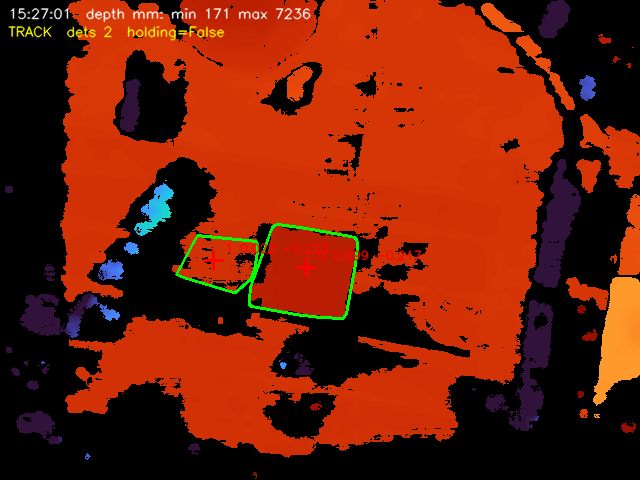
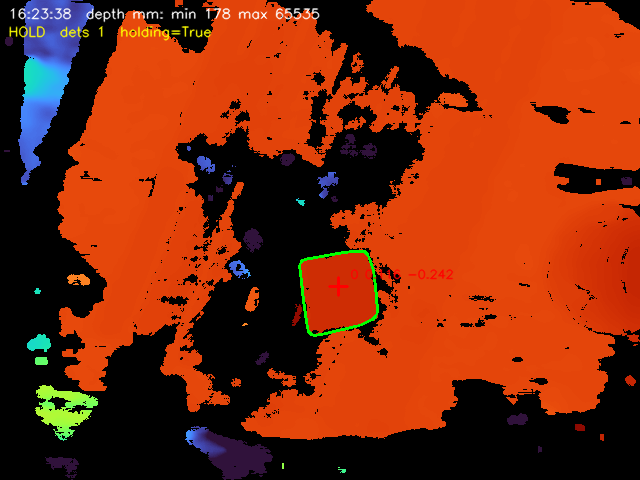
working on hardware

diff --git a/src/servo.py b/src/servo.py
@@ -9,9 +9,9 @@ import numpy as np
 
 from src.config import (
     ARM_DOF, TIP_OFFSET, R_DOWN, JOINT_RANGE,
-    GRIP_OPEN, SYNC_STEPS, RAPID,
+    GRIP_OPEN, SYNC_STEPS, RAPID, FEED,
     SERVO_USE_KF, KF_SIGMA_MEAS, KF_SIGMA_ACC, KF_GATE, SERVO_LEAD_S,
-    SERVO_KP, SERVO_KO, SERVO_KI, SERVO_KI_NEAR_M, SERVO_KI_NEAR_RAD, SERVO_KI_MAX_M,
+    SERVO_KP, SERVO_KO, GRASP_EXTRA_Z, SERVO_KI, SERVO_KI_NEAR_M, SERVO_KI_NEAR_RAD, SERVO_KI_MAX_M,
     SERVO_KI_MAX_RAD, SERVO_DAMP_GAIN, SERVO_DAMP_NEAR_M,
     SERVO_DAMP_NEAR_RAD,
     SERVO_TRACK_TOL, SERVO_TRACK_TOL_ROT, SERVO_STILL_SPEED, SERVO_LOST_LIMIT,
@@ -191,6 +191,7 @@ class PBVSServo:
         # there would close them in mid-air.
         self.descent_short = 0.0
         self.descent_joint = None
+        self.descent_info = None
 
         # set while the loop runs, so observe() can push to the overlay
         self.viewer = None
@@ -812,6 +813,7 @@ class PBVSServo:
         q = np.array(backend.joint_positions(), float)
         self.descent_short = 0.0
         self.descent_joint = None
+        self.descent_info = None
 
         for i in range(steps):
             if aborted is not None and aborted():
@@ -842,6 +844,16 @@ class PBVSServo:
         p_end, _ = self.world.gripper_pose()
         self.descent_short = float(np.linalg.norm(
             np.asarray(p_end, float) - p_des))
+        # Why it fell short: the IK's own residual (the commanded joint vector
+        # does not put the tool on p_des) versus the joint lag (the arm is not
+        # where it was commanded). Those need different fixes.
+        p_cmd, _ = self.arm.kin.pose(q[:ARM_DOF])
+        q_act = np.asarray(backend.joint_positions(), float)[:ARM_DOF]
+        self.descent_info = {
+            'steps': steps,
+            'ik_mm': 1e3 * float(np.linalg.norm(np.asarray(p_cmd) - p_des)),
+            'lag': float(np.max(np.abs(q[:ARM_DOF] - q_act))),
+        }
         # Which joint is closest to its clip, so a short descent can say why.
         lim = np.abs(np.asarray(JOINT_RANGE, float))
         if lim.ndim:
@@ -911,7 +923,11 @@ class PBVSServo:
         self.p_est = np.array(ref, float)
         self.yaw_est = float(self.ref_yaw if self.ref_yaw is not None
                              else self.best_yaw)
-        p_des, R_des = self.desired_pose(0.0)
+        # 30 mm LOWER than the geometric grasp pose, forced by the operator: the
+        # arm settles ~11 mm short of whatever it is given, and the first runs
+        # were closing high. The contact gate still clamps it to the pad limit,
+        # so this cannot drive the pads into the table.
+        p_des, R_des = self.desired_pose(GRASP_EXTRA_Z)
         ov = getattr(self.viewer, 'overlay', None)
         if ov is not None:
             ov.set_target(p_des, R_des)
@@ -919,23 +935,28 @@ class PBVSServo:
              'open-loop commit to %6.3f %6.3f' % (self.best_p[0], self.best_p[1]),
              'from the fullest view, span %.4f' % self.best_span)
 
-        # Watch for the target moving during the descent, on the camera only.
+        # OPEN LOOP, which is what the commit is for: one IK solve from the last
+        # unbiased estimate, then a plain joint move. No per-step Cartesian
+        # servo, no re-solving down the line, no camera in the loop. The reason
+        # the camera must stay out is the same one that makes the servo descent
+        # unusable here -- closer in, the jaws and the housing bias the fitted
+        # centre, so anything that keeps looking drives on a drifting target.
         self.target_moved = False
-        counter = [0]
-
-        def watch_step():
-            counter[0] += 1
-            if counter[0] % self.perceive_every == 0:
-                self.motion_watch(viewer=viewer)
-
-        def stop_now():
-            # the descent also stops early the moment motion is seen
-            return ((aborted is not None and aborted()) or self.target_moved)
-
-        watch_step_ = watch_step if watch else None
-        self._cartesian_descent(p_des, R_des, self.retreat_v, viewer=viewer,
-                                estop=estop, aborted=stop_now,
-                                watch=watch_step_)
+        q_goal = self.arm.solve_ik(
+            p_des, np.asarray(self.arm.backend.joint_positions(), float),
+            R_target=R_des, max_joint=JOINT_RANGE)
+        self.arm.move(q_goal, GRIP_OPEN, rate=FEED, estop=estop)
+        # SETTLE. move() returns when the last target has been STREAMED, not
+        # when the arm has arrived; servoJ lags it. Measuring straight away
+        # reads that lag as a short descent (13 mm on the cell), so hold the
+        # final target for a moment before asking where the tool is.
+        for _ in range(max(1, int(0.30 / self.arm.backend.dt))):
+            self.arm.backend.command(q_goal, GRIP_OPEN)
+            self.arm.backend.step()
+        self.descent_short = 0.0
+        p_end, _ = self.world.gripper_pose()
+        self.descent_short = float(np.linalg.norm(
+            np.asarray(p_end, float) - np.asarray(p_des, float)))
         if self.gated:
             # The pose we wanted was below the contact limit, so the descent
             # stopped short of it. Say so, back off, and report failure rather
@@ -954,21 +975,26 @@ class PBVSServo:
             print('[SERVO] DESCENT ABANDONED: the target moved while descending '
                   '(%.0f mm short, not closing)' % (1e3 * self.descent_short))
             return False, 0
-        if self.descent_short > 0.010:
-            # The pose was legal but the arm did not get there: the jaws are in
-            # mid-air, and closing them here is the "grasped thin air" failure.
-            # Say where it stopped and refuse the grasp.
+        # REPORT ONLY. A short descent is printed but never refuses and never
+        # retreats: the operator wants the grasp attempted wherever the arm
+        # stopped. The refusal this replaces was what turned a near miss into a
+        # visible failure.
+        if self.descent_short > 0.015:
             extra = ''
             if self.descent_joint is not None:
                 j, qv, ql = self.descent_joint
                 extra = ('  [j%d at %+.2f, clip %+.2f]'
                          % (j + 1, qv, ql if qv >= 0 else -ql))
+            info = getattr(self, 'descent_info', None) or {}
+            why = ''
+            if info:
+                why = ('  [ik %.0f mm, joint lag %.2f rad, %d steps]'
+                       % (info['ik_mm'], info['lag'], info['steps']))
             msg = ('[SERVO] DESCENT SHORT: stopped %.0f mm above the grasp pose '
-                   '(not closing)%s' % (1e3 * self.descent_short, extra))
+                   '(forced -- closing anyway)%s%s'
+                   % (1e3 * self.descent_short, extra, why))
             print(msg)
-            push(viewer, 'occlusion', 'descent short -- not closing', msg)
-            self.retreat(viewer=viewer, estop=estop, aborted=aborted)
-            return False, 0
+            push(viewer, 'occlusion', 'descent short -- closing anyway', msg)
         if aborted is not None and aborted():
             return False, 0
         return True, 1

diff --git a/src/config.py b/src/config.py
@@ -418,6 +418,11 @@ PLACE_DX = 0.0
 PLACE_DY = 0.0
 PLACE_CLEARANCE = 0.002
 STEPS_CLOSE = 3000
+# The hardware gripper is RETARGETED on every distinct width it receives, and a
+# 3000-cycle ramp handed the URCap ~50 of them: the close stuttered and kept
+# pushing. Quantise the commanded width to this many levels; the RG2 has its own
+# motion controller, so it needs a target, not a servo ramp.
+GRIP_RAMP_LEVELS = 8
 STEPS_RELEASE = 2000
 DROP_HOLD_STEPS = 500      # hold the fingers open after a drop before the next pick
 
@@ -625,6 +630,10 @@ SERVO_LEAD_S = 0.15
 # whose servoJ lag is 0.1 s of lookahead, so a 6/s loop has little phase margin
 # and rings. 2.0 is the calm setting; raise it only with the arm unloaded.
 SERVO_KP = 2.0
+# Commanded grasp height offset, metres, added to the geometric grasp pose.
+# -0.030 forced by the operator: the arm settles short of the pose it is given
+# on this cell, so the pick was closing high. The contact gate still clamps it.
+GRASP_EXTRA_Z = -0.030
 SERVO_KO = 2.0
 SERVO_KI = 0.0               # integral gain on the Cartesian pose error
 SERVO_KI_NEAR_M = 0.05
@@ -735,12 +744,15 @@ RG2_CLOSE_PROGRAM = '/programs/rg_close.urp'
 # The pipeline commands grip as GRIP_OPEN..GRIP_CLOSED (0..255); the RG2 wants
 # a target width in mm, so the command is interpolated between these.
 RG2_OPEN_WIDTH_MM = 110.0    # RG2 full stroke, from the datasheet
-RG2_CLOSE_WIDTH_MM = 10.0    # fully closed without slamming; the example uses 10
+# 56 mm for the 60 mm cube: the jaws stop on the faces and squeeze ~4 mm.
+# It was 10 mm, which commanded the jaws 50 mm past the cube so the RG2 drove
+# until the force limit -- "closing too far, with too much force".
+RG2_CLOSE_WIDTH_MM = 56.0
 # HARDWARE force. This is what rg_grip(width_mm, force_N) is sent, and 5 N was
 # measured on the bench: winding the real gripper down to 3 N still held the cube
 # firmly. The real robot works, so this number does not change to suit the
 # simulation.
-RG2_GRIP_FORCE_N = 5.0       # write-only input; never readable
+RG2_GRIP_FORCE_N = 2.5       # write-only input; never readable
 RG2_MIN_STEP_MM = 2.0        # skip commands smaller than this
 
 # The simulated actuator sits on the finger HINGE, so its forcerange is a TORQUE

diff --git a/run_hardware.py b/run_hardware.py
@@ -141,6 +141,26 @@ def _put_down(arm):
     arm.move(q_high, GRIP_CLOSED, rate=RAPID)
     q_low = arm.solve_ik([p[0], p[1], release_z], q_high, R_target=R)
     arm.move(q_low, GRIP_CLOSED, rate=FEED)
+
+    def settle(q, seconds=0.30):
+        # move() returns when the last target is SENT; the arm is still moving.
+        # Opening there releases the cube in mid-air, which is the "drop".
+        for _ in range(max(1, int(seconds / arm.backend.dt))):
+            arm.backend.command(q, GRIP_CLOSED)
+            arm.backend.step()
+
+    settle(q_low)
+    # The arm settles ~11 mm ABOVE the pose it is given, so correct the measured
+    # residual before letting go: command the release height that far lower.
+    p_now, _ = arm.kin.pose(arm.backend.joint_positions())
+    dz = float(p_now[2]) - release_z
+    if 0.002 < dz < 0.030:
+        print('[HW] put-down settled %.0f mm high -- correcting' % (dz * 1e3))
+        q_low = arm.solve_ik([p[0], p[1], release_z - dz],
+                             arm.backend.joint_positions(), R_target=R)
+        arm.move(q_low, GRIP_CLOSED, rate=FEED)
+        settle(q_low)
+
     arm.open_gripper(STEPS_RELEASE)
     return True
 

diff --git a/src/arm.py b/src/arm.py
@@ -32,7 +32,7 @@ import numpy as np
 
 from src.config import (
     ARM_DOF, GRIP_OPEN, GRIP_CLOSED, R_DOWN,
-    RAPID, FEED, RAPID_MIN_STEPS, FEED_MIN_STEPS,
+    RAPID, FEED, RAPID_MIN_STEPS, FEED_MIN_STEPS, GRIP_RAMP_LEVELS,
     SYNC_STEPS,
     GRASP_DRIVER_JOINTS, GRASP_CLOSED_Q, GRASP_FORCE_MIN, GRASP_VEL_TOL,
 )
@@ -315,7 +315,11 @@ class Arm:
             if stop is not None and stop():
                 return
             a = (i + 1) / steps
-            grip = g_from + a * (g_to - g_from)
+            # Quantised command (see GRIP_RAMP_LEVELS): a real gripper is
+            # retargeted per distinct width, so a smooth 3000-step ramp makes it
+            # stutter. Eight levels close in eight clean moves.
+            k = min(GRIP_RAMP_LEVELS, int(a * GRIP_RAMP_LEVELS + 0.999))
+            grip = g_from + (k / GRIP_RAMP_LEVELS) * (g_to - g_from)
             if self.observer is not None:
                 self.observer.predict(q_hold)
             self._command_step(q_hold, grip)
